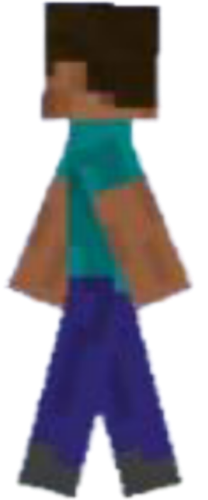
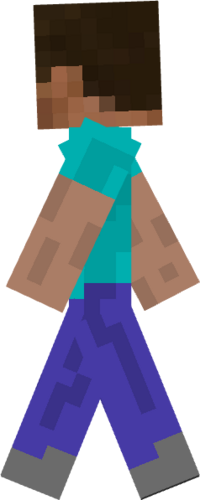
New sprites for Hero; new day-night system; added torch; added sun

diff --git a/globals.py b/globals.py
@@ -1,8 +1,8 @@
 BLOCKS_DATA = {
     'earth': [0.8, 'grass', 16],
-'grass': [0.8, 'grass', 16],
+    'grass': [0.8, 'grass', 16],
     'stone': [4, 'stone', 8],
-'stone2': [4, 'stone', 8],
+    'stone2': [4, 'stone', 8],
     'coal': [6, 'stone', 6.5],
     'iron': [12, 'stone', 5],
     'gold': [18, 'stone', 3],
@@ -15,9 +15,9 @@ BLOCKS_DATA = {
     'oven2': [4, 'stone', 8],
     'stone_bricks': [4, 'stone', 8],
     'glass': [0.2, 'stone', 25],
+    'torch': [0.1, 'wood', 25]
 
 }
-
 
 # Рецепты крафта (матрица 3x3)
 CRAFTING_RECIPES = {
@@ -49,6 +49,16 @@ CRAFTING_RECIPES = {
             [None, None, None]
         ],
         "result": "sticks",
+        "result_count": 4
+    },
+    # Факелы
+    "torch": {
+        "pattern": [
+            [None, "coal2", None],
+            [None, "sticks", None],
+            [None, None, None]
+        ],
+        "result": "torch",
         "result_count": 4
     },
     # Деревянный меч
@@ -122,7 +132,7 @@ CRAFTING_RECIPES = {
         "result_count": 1
     },
 
-# Деревянный топор
+    # Деревянный топор
     "wooden_axe": {
         "pattern": [
             ['wooden_planks', "wooden_planks", None],
@@ -142,7 +152,7 @@ CRAFTING_RECIPES = {
         "result": "stone_axe",
         "result_count": 1
     },
-# Железный топор
+    # Железный топор
     "iron_axe": {
         "pattern": [
             ['iron_ingot', "iron_ingot", None],
@@ -173,7 +183,7 @@ CRAFTING_RECIPES = {
         "result_count": 1
     },
 
-# Деревянная кирка
+    # Деревянная кирка
     "wooden_pickaxe": {
         "pattern": [
             ['wooden_planks', "wooden_planks", 'wooden_planks'],
@@ -193,7 +203,7 @@ CRAFTING_RECIPES = {
         "result": "stone_pickaxe",
         "result_count": 1
     },
-# Железная кирка
+    # Железная кирка
     "iron_pickaxe": {
         "pattern": [
             ['iron_ingot', "iron_ingot", 'iron_ingot'],
@@ -224,7 +234,7 @@ CRAFTING_RECIPES = {
         "result_count": 1
     },
 
-# Деревянная лопата
+    # Деревянная лопата
     "wooden_shovel": {
         "pattern": [
             [None, "wooden_planks", None],
@@ -244,7 +254,7 @@ CRAFTING_RECIPES = {
         "result": "stone_shovel",
         "result_count": 1
     },
-# Железная лопата
+    # Железная лопата
     "iron_shovel": {
         "pattern": [
             [None, "iron_ingot", None],
@@ -275,7 +285,7 @@ CRAFTING_RECIPES = {
         "result_count": 1
     },
 
-# Слиток железа
+    # Слиток железа
     "iron_ingot": {
         "pattern": [
             ["iron2", None, None],
@@ -286,7 +296,7 @@ CRAFTING_RECIPES = {
         "result_count": 1
     },
 
-# Слиток золота
+    # Слиток золота
     "golden_ingot": {
         "pattern": [
             ["gold2", None, None],
@@ -297,7 +307,6 @@ CRAFTING_RECIPES = {
         "result_count": 1
     }
 }
-
 
 WEAPON = {
     "wooden_sword": {
@@ -314,72 +323,72 @@ WEAPON = {
     },
     "golden_sword": {
         "damage": 3,
-        "object":["monster"]
+        "object": ["monster"]
     },
-"diamond_sword": {
+    "diamond_sword": {
         "damage": 3.5,
         "object": ["monster"]
     },
-"wooden_axe": {
+    "wooden_axe": {
         "damage": 1.5,
         "object": ["wood", "wooden_planks"]
     },
-"stone_axe": {
+    "stone_axe": {
         "damage": 2,
         "object": ["wood", "wooden_planks"]
     },
-"iron_axe": {
+    "iron_axe": {
         "damage": 3,
         "object": ["wood", "wooden_planks"]
     },
-"golden_axe": {
+    "golden_axe": {
         "damage": 4,
         "object": ["wood", "wooden_planks"]
     },
-"diamond_axe": {
+    "diamond_axe": {
         "damage": 6,
         "object": ["wood", "wooden_planks"]
     },
-"wooden_pickaxe": {
+    "wooden_pickaxe": {
         "damage": 1.5,
         "object": ["stone", "coal", "oven", "oven2", "stone_bricks"]
     },
-"stone_pickaxe": {
+    "stone_pickaxe": {
         "damage": 2,
         "object": ["stone", "coal", "iron", "oven", "oven2", "stone_bricks"]
     },
-"iron_pickaxe": {
+    "iron_pickaxe": {
         "damage": 3,
         "object": ["stone", "coal", "iron", "gold", "diamonds", "oven", "oven2", "stone_bricks"]
     },
-"golden_pickaxe": {
+    "golden_pickaxe": {
         "damage": 4,
         "object": ["stone", "coal", "iron", "gold", "diamonds", "oven", "oven2", "stone_bricks"]
     },
-"diamond_pickaxe": {
+    "diamond_pickaxe": {
         "damage": 6,
         "object": ["stone", "coal", "iron", "gold", "diamonds", "oven", "oven2", "stone_bricks"]
     },
 
-"wooden_shovel": {
+    "wooden_shovel": {
         "damage": 1.5,
         "object": ["earth", 'grass']
     },
-"stone_shovel": {
+    "stone_shovel": {
         "damage": 2,
         "object": ["earth", 'grass']
     },
-"iron_shovel": {
+    "iron_shovel": {
         "damage": 3,
         "object": ["earth", 'grass']
     },
-"golden_shovel": {
+    "golden_shovel": {
         "damage": 4,
         "object": ["earth", 'grass']
     },
-"diamond_shovel": {
+    "diamond_shovel": {
         "damage": 6,
         "object": ["earth", 'grass']
-}
+    }
 
 }

diff --git a/main.py b/main.py
@@ -542,7 +542,7 @@ class Hero(arcade.Sprite):
         self.is_walking = False
         self.current_side = Side.RIGHT
         self.skin = skin
-        self.texture_idle = arcade.load_texture(f"skin/resized-{self.skin}_1.png")
+        self.texture_idle = arcade.load_texture(f"skin/{self.skin}_idle.png")
         self.texture = self.texture_idle
         self.walk_animation = []
 
@@ -766,10 +766,20 @@ class GameWindow(arcade.Window):
         # Файл сохранения
         self.save_file = "game_save.json"
 
-        # Оригинальные блоки карты (для сброса)
+        self.sound_player = None
+        self.day_time = 0.0
+        self.sun_list = arcade.SpriteList()
+
+
+    # Оригинальные блоки карты (для сброса)
         self.original_blocks = {}
 
         self.last_spawn_time = time.time()
+
+        self.sun = arcade.Sprite("minecraft_blocks/sun.webp", scale=0.25)
+        self.sun.center_x = 80
+        self.sun.center_y = SCREEN_HEIGHT // 2
+        self.sun_list.append(self.sun)
 
     def setup(self):
         """Инициализация игры"""
@@ -856,18 +866,20 @@ class GameWindow(arcade.Window):
         """Отрисовка игрового экрана"""
         self.clear()
 
-        # Отрисовка игрового мира через игровую камеру
+        self.gui_camera.use()
+        self.sun_list.draw()
+
         self.world_camera.use()
         for name, sprite_list in self.sprite_lists.items():
             if name != 'collisions':
                 sprite_list.draw()
-
         self.cracks_list.draw()
         self.player_list.draw()
         self.monster_list.draw()
 
-        # Отрисовка интерфейса через GUI камеру
         self.gui_camera.use()
+        self.draw_lighting()
+
 
         # Отрисовка шкалы здоровья игрока
         if self.player and self.player.is_alive:
@@ -918,6 +930,35 @@ class GameWindow(arcade.Window):
         # Приостановка обновления если игра на паузе
         if self.pause_screen.is_visible:
             return
+
+        day_speed = math.pi / 300
+        night_speed = math.pi / 180
+
+        if math.sin(self.day_time) >= 0:
+            self.day_time += dt * day_speed
+        else:
+            self.day_time += dt * night_speed
+
+        if self.day_time > 2 * math.pi:
+            self.day_time -= 2 * math.pi
+
+        self.sun.center_x = 80
+        sun_oscillation = math.sin(self.day_time)
+        self.sun.center_y = (SCREEN_HEIGHT / 2) + (sun_oscillation * 350)
+
+        # --- Sky Color ---
+        sun_height_factor = (sun_oscillation + 1) / 2
+
+        new_r = int(20 + (115 * sun_height_factor))
+        new_g = int(20 + (186 * sun_height_factor))
+        new_b = int(40 + (195 * sun_height_factor))
+        arcade.set_background_color((new_r, new_g, new_b))
+
+        sun_oscillation = math.sin(self.day_time)
+        if sun_oscillation < 0:
+            self.darkness_alpha = int(abs(sun_oscillation) * 200)
+        else:
+            self.darkness_alpha = 0
 
         # Обновление физики
         self.physics_engine.update()
@@ -1551,6 +1592,25 @@ class GameWindow(arcade.Window):
             arcade.run()
         except pyglet.gl.lib.GLException:
             pass
+
+    def draw_lighting(self):
+        if self.darkness_alpha <= 0:
+            return
+
+        arcade.draw_rect_filled(
+            arcade.rect.XYWH(SCREEN_WIDTH / 2, SCREEN_HEIGHT / 2, SCREEN_WIDTH, SCREEN_HEIGHT),
+            (0, 0, 0, self.darkness_alpha)
+        )
+
+        if 'torch' in self.sprite_lists:
+            for torch in self.sprite_lists['torch']:
+                screen_pos = self.world_camera.project(torch.position)
+
+                arcade.draw_circle_filled(
+                    screen_pos.x, screen_pos.y,
+                    radius=100,
+                    color=(255, 255, 200, 100)
+                )
 
 
 def main():
